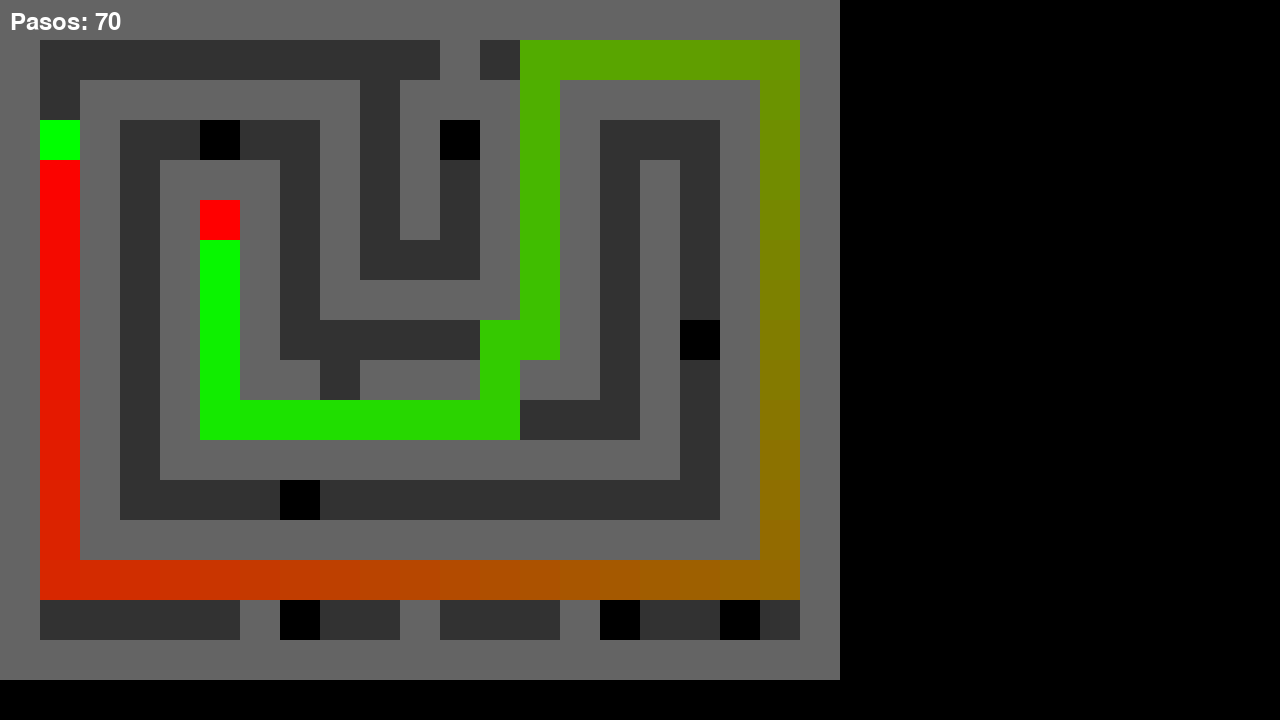
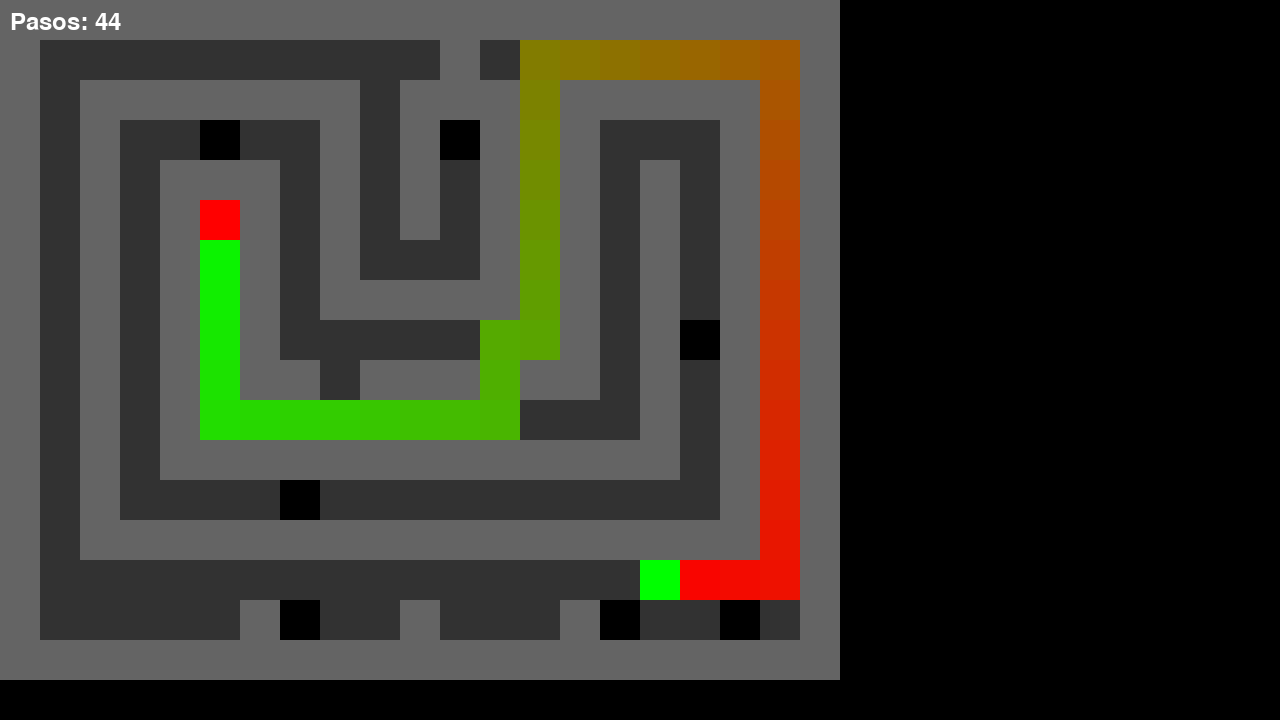
Second Commit

Changed region(s): [[0.0312, 0.0306, 0.625, 0.8556], [0.0625, 0.0, 0.0938, 0.0611]]

diff --git a/laberinto2.py b/laberinto2.py
@@ -3,6 +3,7 @@ import sys
 import random
 import math
 from collections import deque
+import heapq
 
 class Laberinto:
     def __init__(self, level):
@@ -118,7 +119,6 @@ class Laberinto:
             self.clock.tick(60)
 
     def handle_events(self):
-        # Manejo de eventos del juego
         for event in pygame.event.get():
             if event.type == pygame.QUIT:
                 self.quit_game()
@@ -134,8 +134,12 @@ class Laberinto:
                     self.ai_algorithm = 'DFS'
                 elif self.bfs_button_rect.collidepoint(event.pos):
                     self.ai_algorithm = 'BFS'
+                elif self.greedy_button_rect.collidepoint(event.pos):
+                    self.ai_algorithm = 'Greedy'
+                elif self.astar_button_rect.collidepoint(event.pos):
+                    self.ai_algorithm = 'A*'
             if event.type == pygame.USEREVENT:
-                self.move_delay = 150  # Resetear velocidad
+                self.move_delay = 150  # Reset speed
             elif event.type == pygame.USEREVENT + 1:
                 self.invincible = False
 
@@ -211,22 +215,56 @@ class Laberinto:
 
         return []  # No se encontro camino
 
-    def solve_maze_astar(self):
-        # Resolver el laberinto usando A*
-        def heuristic(a, b):
-            return math.sqrt((b[0] - a[0]) ** 2 + (b[1] - a[1]) ** 2)
-
+    def solve_maze_greedy(self):
         start = self.player.topleft
         goal = self.goal.topleft
+        
+        def heuristic(a, b):
+            return math.sqrt((b[0] - a[0]) ** 2 + (b[1] - a[1]) ** 2)
+        
+        visited = set()
+        heap = [(heuristic(start, goal), start)]
+        came_from = {start: None}
+        
+        while heap:
+            _, current = heapq.heappop(heap)
+            
+            if current == goal:
+                path = []
+                while current:
+                    path.append(current)
+                    current = came_from[current]
+                return path[::-1]
+            
+            if current in visited:
+                continue
+            
+            visited.add(current)
+            
+            for dx, dy in [(0, self.block_size), (self.block_size, 0), (0, -self.block_size), (-self.block_size, 0)]:
+                neighbor = (current[0] + dx, current[1] + dy)
+                if (not any(wall.collidepoint(neighbor) for wall in self.maze) and
+                    self.is_safe(neighbor) and neighbor not in visited):
+                    came_from[neighbor] = current
+                    heapq.heappush(heap, (heuristic(neighbor, goal), neighbor))
+        
+        return []  # No path found
 
+    def solve_maze_astar(self):
+        start = self.player.topleft
+        goal = self.goal.topleft
+        
+        def heuristic(a, b):
+            return math.sqrt((b[0] - a[0]) ** 2 + (b[1] - a[1]) ** 2)
+        
         open_set = {start}
         came_from = {}
         g_score = {start: 0}
         f_score = {start: heuristic(start, goal)}
-
+        
         while open_set:
             current = min(open_set, key=lambda pos: f_score[pos])
-
+            
             if current == goal:
                 path = []
                 while current in came_from:
@@ -234,39 +272,40 @@ class Laberinto:
                     current = came_from[current]
                 path.append(start)
                 return path[::-1]
-
+            
             open_set.remove(current)
-
+            
             for dx, dy in [(0, self.block_size), (self.block_size, 0), (0, -self.block_size), (-self.block_size, 0)]:
                 neighbor = (current[0] + dx, current[1] + dy)
                 if any(wall.collidepoint(neighbor) for wall in self.maze) or not self.is_safe(neighbor):
                     continue
-
+                
                 tentative_g_score = g_score[current] + self.block_size
-
+                
                 if neighbor not in g_score or tentative_g_score < g_score[neighbor]:
                     came_from[neighbor] = current
                     g_score[neighbor] = tentative_g_score
                     f_score[neighbor] = g_score[neighbor] + heuristic(neighbor, goal)
                     if neighbor not in open_set:
                         open_set.add(neighbor)
-
-        return []  # No se encontro camino seguro
+        
+        return []  # No path found
 
     def toggle_ai_solving(self):
-        # Activar/desactivar la resolucion por IA
         self.ai_solving = not self.ai_solving
         if self.ai_solving and self.ai_algorithm:
             if self.ai_algorithm == 'DFS':
                 self.ai_path = self.solve_maze_dfs()
             elif self.ai_algorithm == 'BFS':
                 self.ai_path = self.solve_maze_bfs()
-            else:
-                self.ai_path = self.solve_maze_astar()  # Por defecto, usar A*
+            elif self.ai_algorithm == 'Greedy':
+                self.ai_path = self.solve_maze_greedy()
+            elif self.ai_algorithm == 'A*':
+                self.ai_path = self.solve_maze_astar()
             
             self.solving_steps = len(self.ai_path) - 1
             if not self.ai_path:
-                print(f"No se encontro un camino seguro. La IA ({self.ai_algorithm}) no puede resolver el laberinto de forma segura.")
+                print(f"No se encontró un camino seguro. La IA ({self.ai_algorithm}) no puede resolver el laberinto de forma segura.")
                 self.ai_solving = False
             else:
                 self.save_solution_image()
@@ -294,7 +333,10 @@ class Laberinto:
         steps_text = self.font.render(f"Pasos: {self.solving_steps}", True, (255, 255, 255))
         maze_surface.blit(steps_text, (10, 10))
 
-        pygame.image.save(maze_surface, f"solucion_laberinto_nivel{self.level}_{self.ai_algorithm}.png")
+        # Use a valid filename
+        algorithm_name = self.ai_algorithm.replace('*', 'star')
+        filename = f"solucion_laberinto_nivel{self.level}_{algorithm_name}.png"
+        pygame.image.save(maze_surface, filename)
 
         # Crear y guardar el minimapa
         minimap_size = 400
@@ -325,7 +367,9 @@ class Laberinto:
         steps_text = self.small_font.render(f"Pasos: {self.solving_steps}", True, (255, 255, 255))
         minimap_surface.blit(steps_text, (10, 10))
 
-        pygame.image.save(minimap_surface, f"minimapa_solucion_nivel{self.level}_{self.ai_algorithm}.png")
+        # Use a valid filename for the minimap
+        minimap_filename = f"minimapa_solucion_nivel{self.level}_{algorithm_name}.png"
+        pygame.image.save(minimap_surface, minimap_filename)
 
     def get_gradient_color(self, step, total_steps):
         # Obtener color gradiente para la visualizacion de la solucion
@@ -544,21 +588,29 @@ class Laberinto:
         self.draw_text(f"Puntuacion: {self.score}", (10, 90))
         self.draw_text(f"Vidas: {self.lives}", (10, 130))
 
-        # Dibujar botones de IA
+        # Draw AI buttons
         self.ai_button_rect = pygame.Rect(900, 300, 160, 50)
         pygame.draw.rect(self.screen, (0, 255, 0) if self.ai_solving else (255, 0, 0), self.ai_button_rect)
         self.draw_text("IA: ON" if self.ai_solving else "IA: OFF", (self.ai_button_rect.x + 10, self.ai_button_rect.y + 10))
 
         self.dfs_button_rect = pygame.Rect(900, 360, 160, 50)
         self.bfs_button_rect = pygame.Rect(900, 420, 160, 50)
+        self.greedy_button_rect = pygame.Rect(900, 480, 160, 50)
+        self.astar_button_rect = pygame.Rect(900, 540, 160, 50)
+        
         pygame.draw.rect(self.screen, (0, 200, 0) if self.ai_algorithm == 'DFS' else (200, 0, 0), self.dfs_button_rect)
         pygame.draw.rect(self.screen, (0, 200, 0) if self.ai_algorithm == 'BFS' else (200, 0, 0), self.bfs_button_rect)
+        pygame.draw.rect(self.screen, (0, 200, 0) if self.ai_algorithm == 'Greedy' else (200, 0, 0), self.greedy_button_rect)
+        pygame.draw.rect(self.screen, (0, 200, 0) if self.ai_algorithm == 'A*' else (200, 0, 0), self.astar_button_rect)
+        
         self.draw_text("DFS", (self.dfs_button_rect.x + 10, self.dfs_button_rect.y + 10))
         self.draw_text("BFS", (self.bfs_button_rect.x + 10, self.bfs_button_rect.y + 10))
+        self.draw_text("Greedy", (self.greedy_button_rect.x + 10, self.greedy_button_rect.y + 10))
+        self.draw_text("A*", (self.astar_button_rect.x + 10, self.astar_button_rect.y + 10))
 
-        # Mostrar pasos de la solucion IA
+        # Show AI solution steps
         if self.ai_solving and self.solving_steps > 0:
-            self.draw_text(f"Pasos: {self.solving_steps}", (900, 380), color=(255, 255, 0))
+            self.draw_text(f"Pasos: {self.solving_steps}", (900, 600), color=(255, 255, 0))
 
         self.draw_minimap()
 
